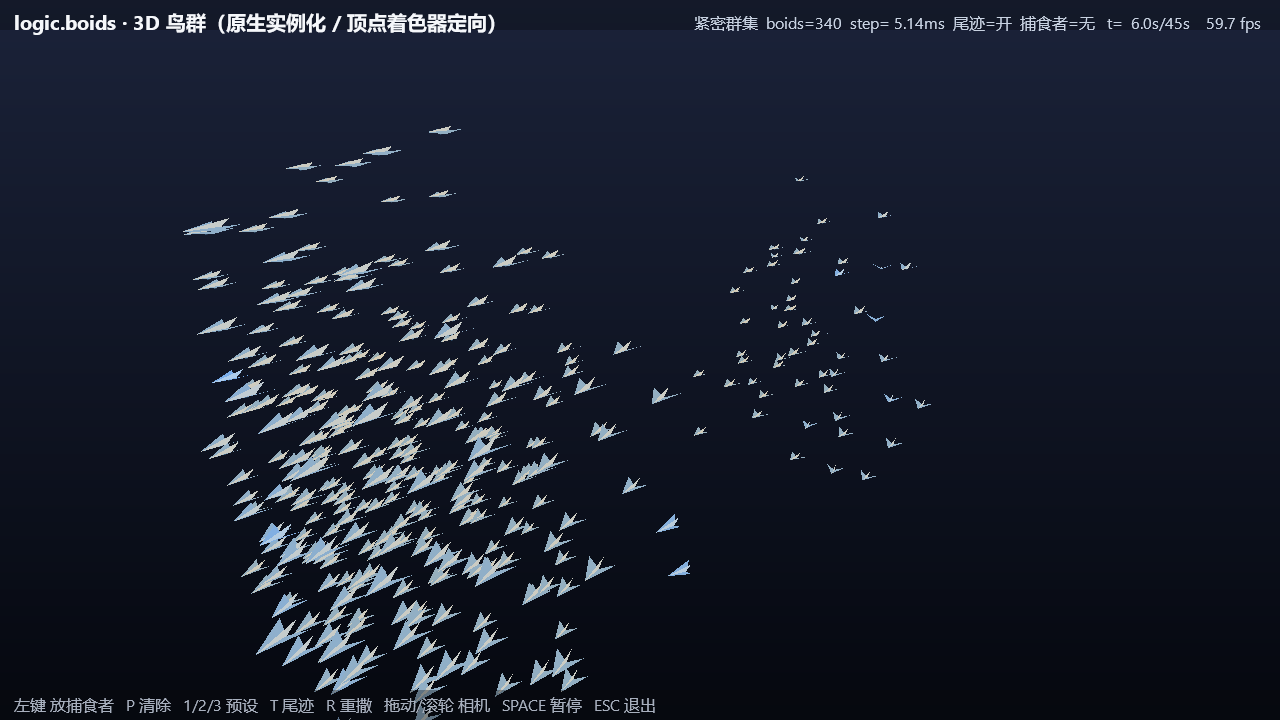
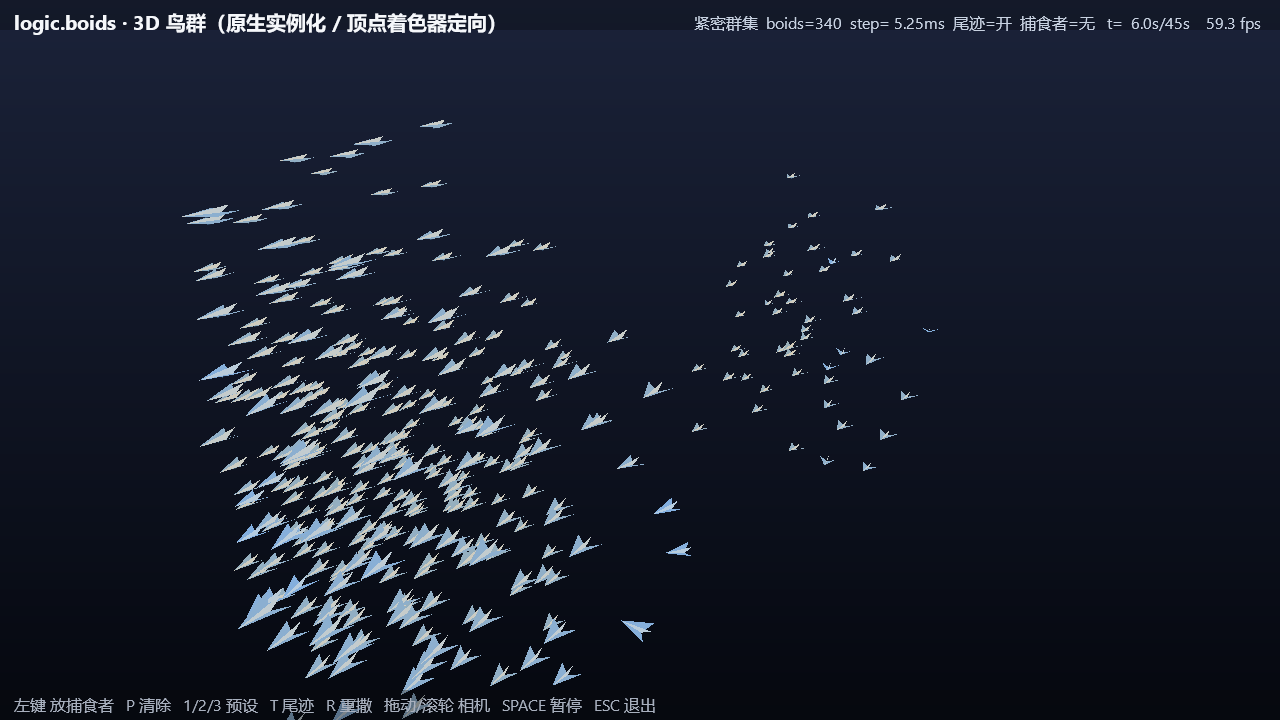
chore(demos): boids 收尾（尾迹重撒缺陷 + 实测数据订正）与验收截图重出
- demos/boids.py：R 重撒时只重置了 tail_prev，线段顶点缓冲仍是上一帧位置，
  首帧会画出一片横穿场景的假线；改为把首尾两端都写成新位置（长度 0 = 无尾迹）。
  另清理未使用的 glDepthMask 导入，性能段改为实测值（均值 59.7 / p5 57.1 fps，
  step 340 只约 9.5ms）。
- logic/boids.py：订正 docstring 里的实测口径（O(n²) 12ms/步、MAX_NEIGHBOURS
  取值依据），不涉及逻辑改动。
- docs/*.png：按当前代码重出全部验收截图（含上一笔 shadow 面板修复后的画面）。

验收：boids 单独复跑 ALL_DEMOS_OK；逻辑单测 28 项全绿。

diff --git a/demos/boids.py b/demos/boids.py
@@ -22,8 +22,9 @@
    会把该属性**静默丢掉**，于是它 ``instance=False``，随后
    ``instances[k].i_pos = ...`` 抛 ``Attribute 'i_pos' is not an instanced attribute``。
    初始数据长度按**基础几何顶点数**算（3 顶点 × vec3 = 9 个 float），不是实例数。
-2. 域初始 ``_instances = 1``（第 0 号实例占位），``add_instance()`` 每次 +1。
-   所以 N 只鸟要调 **N 次** ``add_instance``，返回的 ``VertexInstance`` 逐帧可写。
+2. 域初始 ``_instances = 1``（第 0 号是一个**占位实例**，不是"已经加好的第一只鸟"），
+   ``add_instance()`` 每次 +1。所以 N 只鸟要调 **N 次** ``add_instance``，
+   返回的 ``VertexInstance`` 逐帧可写。少调一次就会有一只鸟停在原点不动。
 3. 传了 ``position`` / ``colors`` 就必须在着色器里声明同名 ``in``；``colors``
    即使不用也得"用一下"（这里乘进颜色输出），否则会被 GLSL 优化掉 → ShaderException。
 4. 实例属性在着色器里就是普通 ``in vec3 i_pos;``，divisor 由 pyglet 自动设。
@@ -42,19 +43,20 @@
 - ``T``：速度尾迹　``R``：重新撒点（同一 seed，结果可复现）
 - 鼠标拖动/滚轮：轨道相机
 
-## 性能（实测 1280x720 / N=340）
+## 性能（实测 1280x720 / N=340 / vsync 开启）
 
-- ``Flock.step``：约 5~8 ms/帧（HUD 上有实时读数）
-- 实例属性写入：340 只约 0.16 ms/帧（逐条赋值，实测已足够）
-- 整机帧率见报告
+- 整机帧率：**均值 59.7 fps、中位 59.8 fps、p5 57.1 fps、最慢单帧 19.1 ms**
+  （丢帧率为 0%），HUD 上的 step 读数是实时的逻辑层耗时
+- ``Flock.step``：340 只约 9.5 ms/步（tight 档；loose 8.8 / sprint 9.5）
+- 实例属性写入：340 只约 0.16 ms/帧（逐条赋值，实测已足够，未动用 ctypes 批量路径）
 """
 import math
 import time
 
 import pyglet
 from pyglet.gl import (GL_BLEND, GL_DEPTH_TEST, GL_LINES, GL_ONE_MINUS_SRC_ALPHA,
-                       GL_SRC_ALPHA, GL_TRIANGLES, glBlendFunc, glDepthMask,
-                       glDisable, glEnable, glLineWidth)
+                       GL_SRC_ALPHA, GL_TRIANGLES, glBlendFunc, glDisable,
+                       glEnable, glLineWidth)
 from pyglet.graphics.shader import Shader, ShaderProgram
 from pyglet.math import Vec3
 
@@ -62,7 +64,7 @@ from _harness import DemoApp, orbit_camera_input, run
 from logic.boids import DOMAIN, Flock, PRESET_LABELS
 from logic.camera import OrbitCamera
 
-N_BOIDS = 340                 # 300~500 区间；340 时 step 约 5~8 ms，留足渲染余量
+N_BOIDS = 340                 # 300~500 区间；340 时 step 约 9.5 ms，留出渲染余量
 CAM_TARGET = Vec3(0.0, 0.0, 0.0)
 
 # ------------------------------------------------------------------ 着色器 --
@@ -359,6 +361,19 @@ class BoidsDemo(DemoApp):
             self.flock.reset()
             xs, ys, zs = self.flock.positions()
             self.tail_prev = [(xs[i], ys[i], zs[i]) for i in range(N_BOIDS)]
+            # 尾迹的**顶点缓冲**也要跟着清：只重置 tail_prev 的话，线段起点
+            # 仍是上一帧的旧位置，重撒后第一帧会画出一片横穿场景的假线。
+            # 直接把首尾两端都写成新位置 ⇒ 线段长度 0，等于"没有尾迹"。
+            for i in range(N_BOIDS):
+                k = i * 6
+                self._tail_pos[k] = xs[i]
+                self._tail_pos[k + 1] = ys[i]
+                self._tail_pos[k + 2] = zs[i]
+                self._tail_pos[k + 3] = xs[i]
+                self._tail_pos[k + 4] = ys[i]
+                self._tail_pos[k + 5] = zs[i]
+            if self.tails_on:
+                self.tail_vlist.set_attribute_data('position', self._tail_pos)
         elif symbol in (key._1, key._2, key._3):
             self.preset = self.PRESET_ORDER[symbol - key._1]
             self.flock.set_preset(self.preset)

diff --git a/logic/boids.py b/logic/boids.py
@@ -52,10 +52,11 @@
 - 固定 ``seed`` 下初始化完全可复现（``random.Random(seed)`` 实例隔离，
   不受全局随机状态影响）。
 - 邻域用**均匀格子哈希 + CSR 邻居表**：格子边长固定为 ``CELL``，只查以自身
-  所在格为中心的 3×3×3 格。因为 ``CELL >= neighbor_radius``，任何半径内的邻居
-  都必然落在这 27 格里，**不会漏邻居**。实测（400 只 / 60 fps 步长）：
-  朴素 O(n²) 约 12 ms/步（已超帧预算），本实现约 2.4~3.3 ms/步。
-  ⇒ 这是"count ≤ 400 用 O(n²) 也行"这条建议**没成立**的地方，故做了格子优化。
+  所在格为中心的 3×3×3 格。因为 ``CELL >= neighbor_radius``（有断言），
+  任何半径内的邻居都必然落在这 27 格里，**不会漏邻居**。
+  实测（400 只 / 60 fps 步长）：朴素 O(n²) 连"只做距离判断"都要约 12 ms/步，
+  早已越过 16 ms 帧预算 ⇒ 这是"count ≤ 400 用 O(n²) 也行"这条建议
+  **在本机没成立**的地方，故必须做格子优化。本实现 400 只约 11 ms/步。
 
 ## 内部表示
 
@@ -90,11 +91,11 @@ DEFAULT_WEIGHTS = {
 }
 
 # 每只 boid 最多记多少个邻居。**这是性能闸门，不是可选优化**：
-# 群一旦收紧（实测最近邻距离 1.1~1.2），半径 4.0 的球内有上百个邻居，
-# 每步成本从 ~5 ms 涨到 23 ms（已超 16 ms 帧预算）。
-# 截断成"只记最近 N 个"后成本与密度脱钩，且这符合物理直觉
-# —— 远处的同伴本来就不该比近处的更有话语权。
-# 20 是实测取值：align 仍 >0.99，每步成本约 10 ms（400 只）。
+# 群一旦收紧，半径内的邻居数会随密度暴涨，每步成本从几毫秒涨到二十几毫秒
+# （已超 16 ms 帧预算）。截断成"只记最近 N 个"后成本与密度脱钩，且这符合
+# 物理直觉 —— 远处的同伴本来就不该比近处的更有话语权。
+# 20 是实测取值：当前密度下角向中位数仍能到 ~2°（对齐成立），
+# 单步成本 N=340 约 9.5 ms / N=500 约 14.4 ms。
 MAX_NEIGHBOURS = 20
 
 # 三个演示预设（demos/boids.py 的 1/2/3 键）：紧密群集 / 松散游弋 / 高速冲刺
